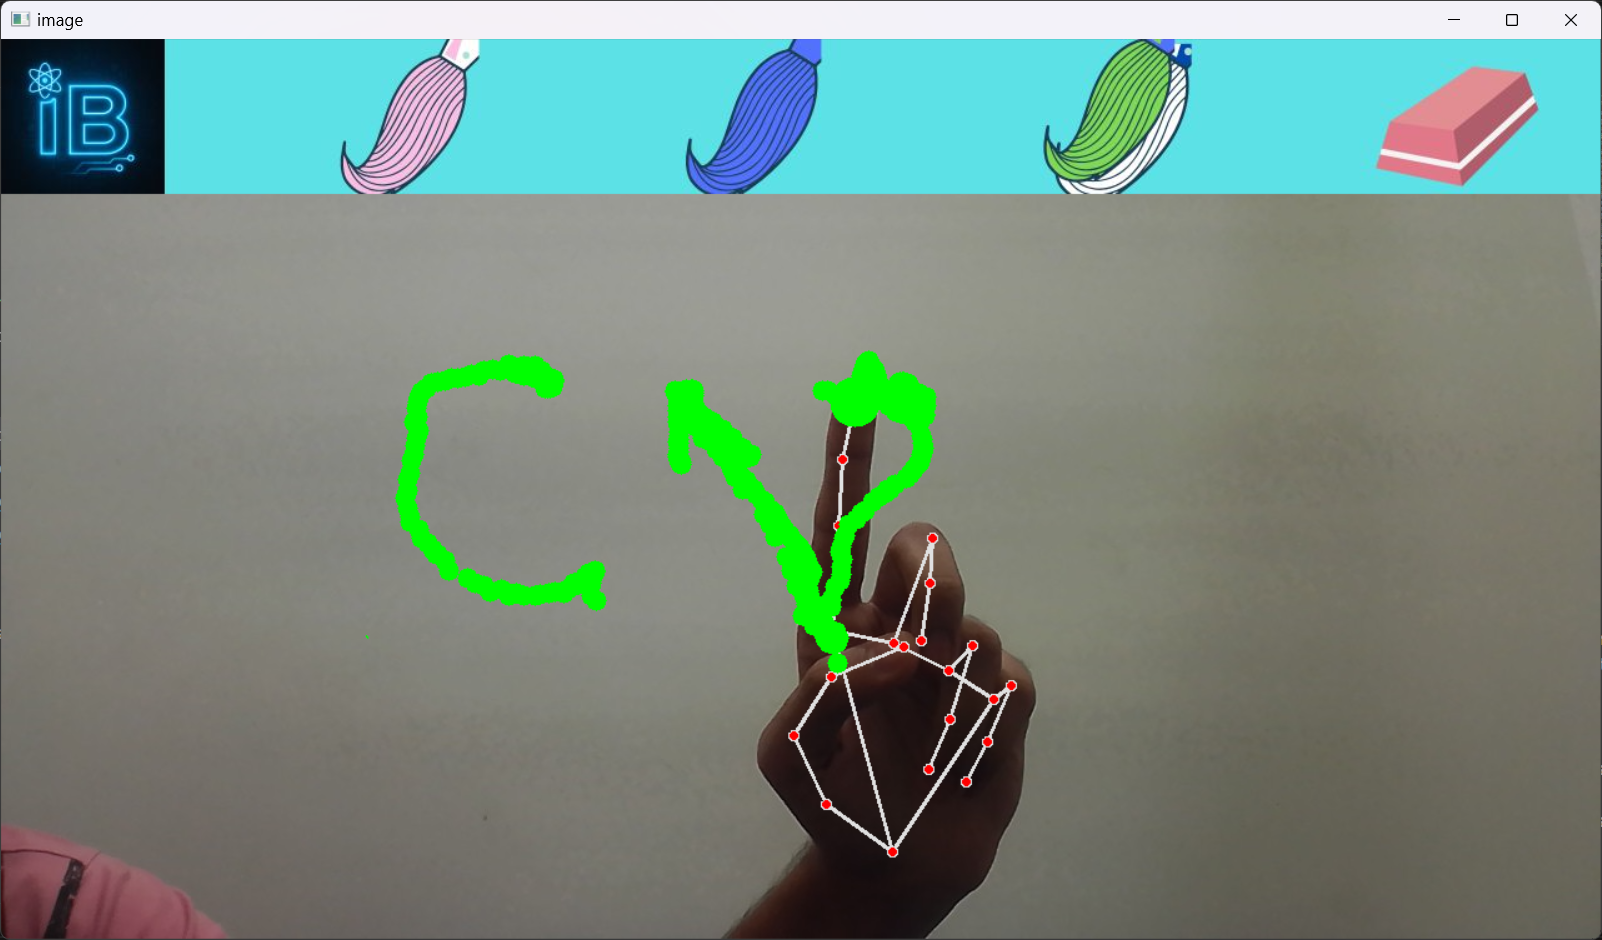
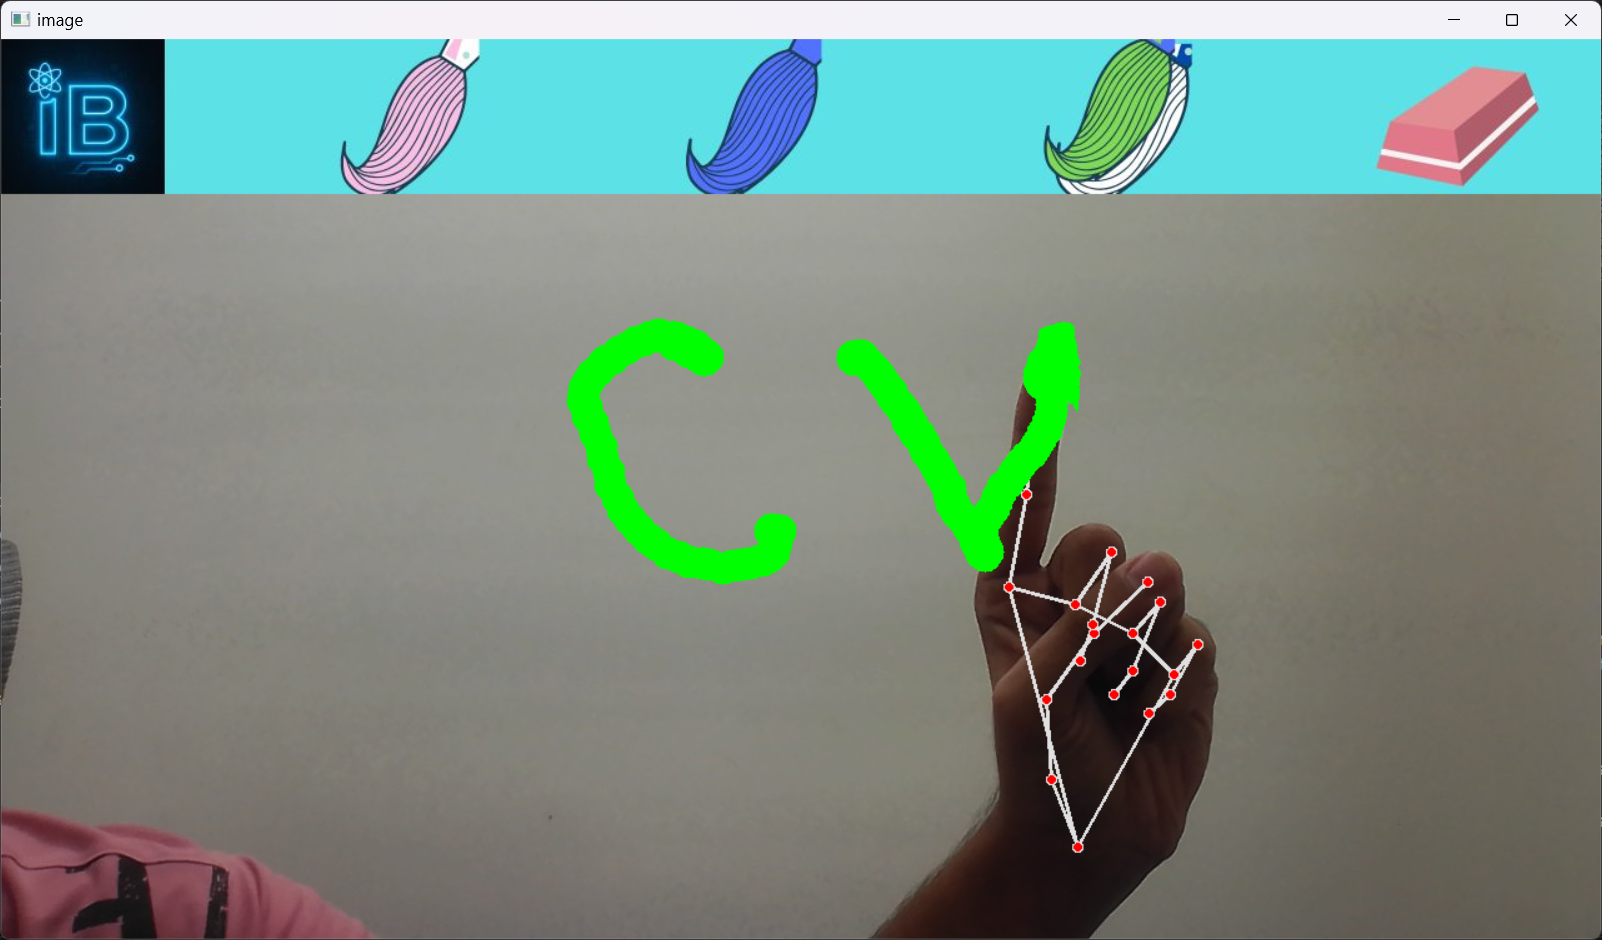
readme file update

diff --git a/app_virtual_painter.py b/app_virtual_painter.py
@@ -10,7 +10,7 @@ myList = os.listdir(folderPath)
 
 overLayList= []
 colourList = (255,0,255)
-brushThickness = 15
+brushThickness = 25
 eraserThickness = 75
 xp,yp =0,0
 
